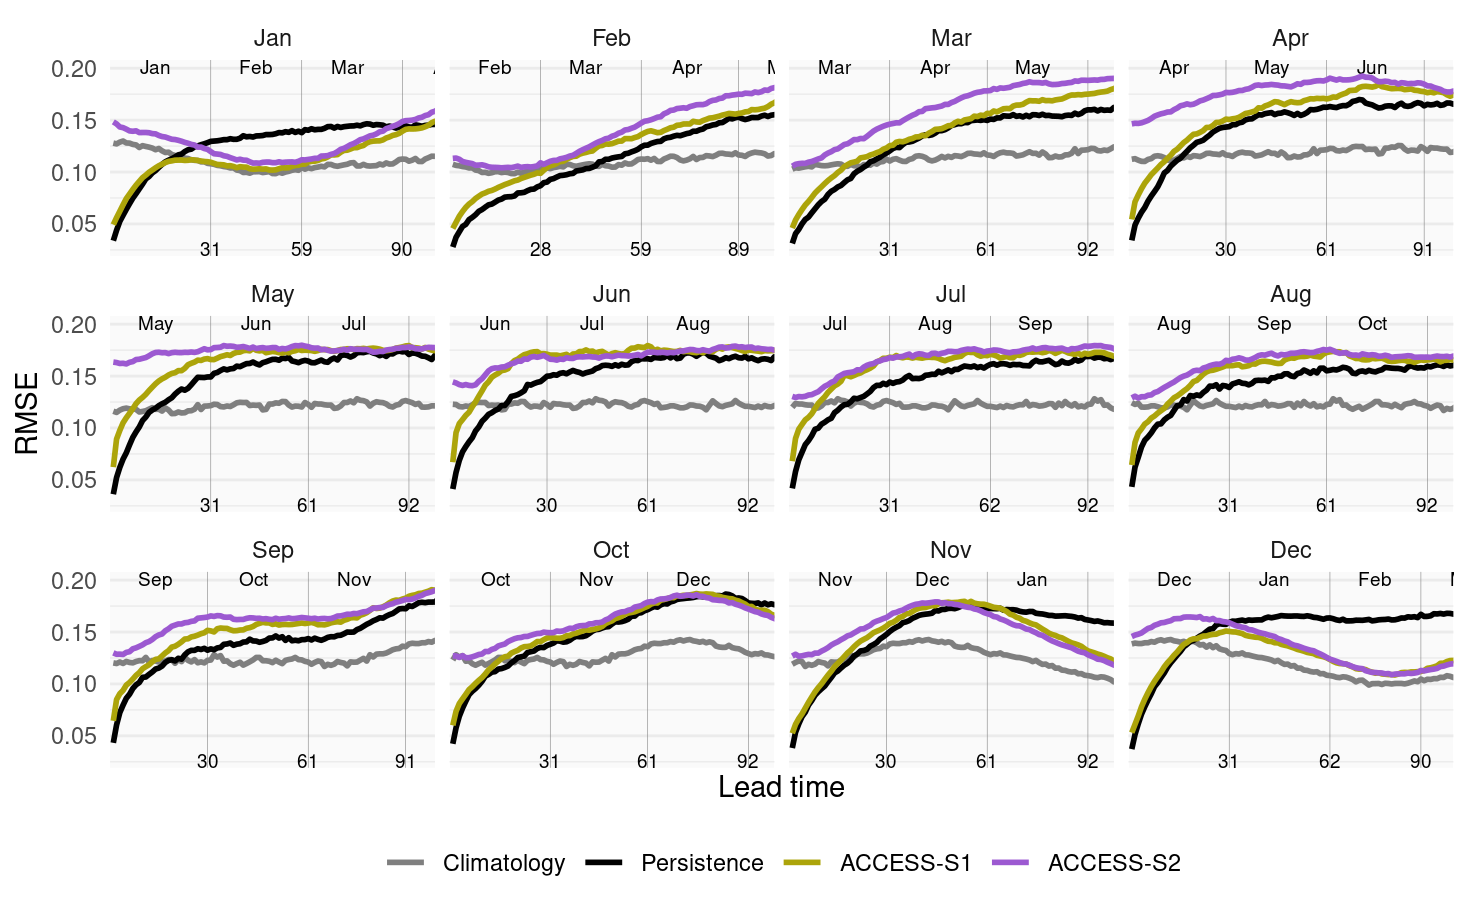
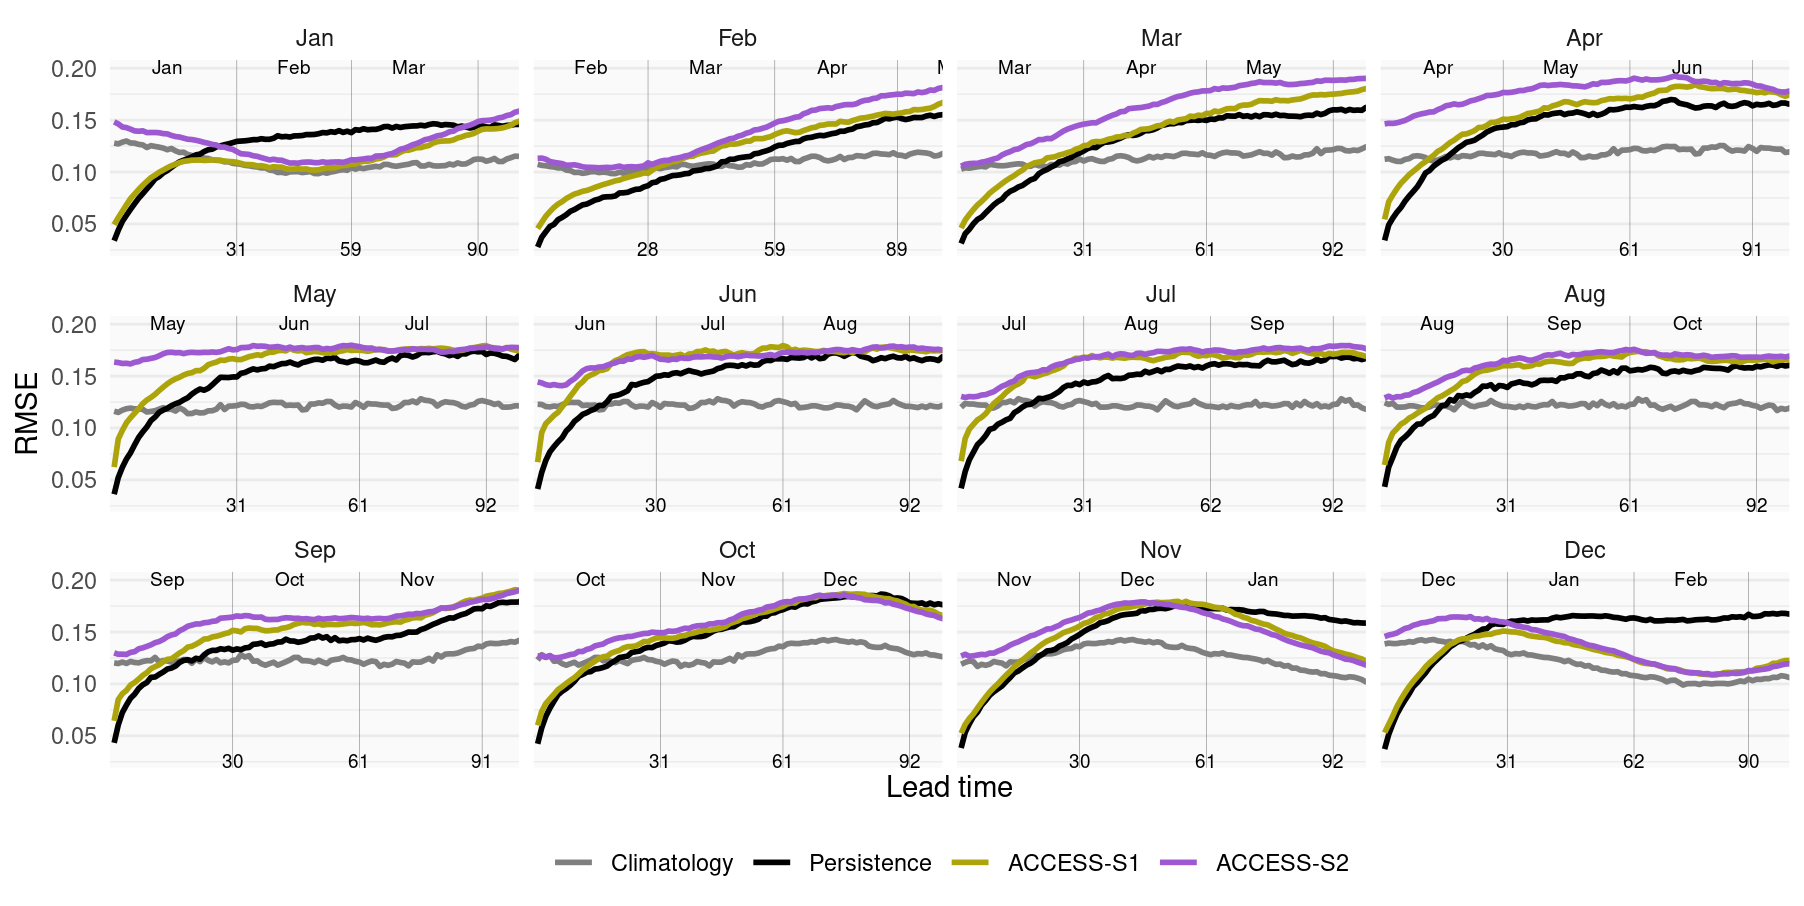
CHanges size climatology

diff --git a/analysis/poster_ncar/presentation_figures.html b/analysis/poster_ncar/presentation_figures.html
@@ -536,12 +536,12 @@ g &lt;- clim_std2 |&gt;
   scale_color_models +
   scale_fill_models +
   facet_wrap(~ month, labeller = labeller(month = labels_month)) </code></pre>
-<pre class="r"><code>width_errors &lt;- 19.43/cm
+<pre class="r"><code>width_errors &lt;- 23.87/cm
 height_errors &lt;- 11.99/cm</code></pre>
 <pre class="r"><code>g %+% g$data[version != &quot;climatology&quot;]</code></pre>
-<p><img src="presentation_figures_files/figure-html/rmse_persistence-1.png" width="734.362204724409" /></p>
+<p><img src="presentation_figures_files/figure-html/rmse_persistence-1.png" width="902.173228346457" /></p>
 <pre class="r"><code>g %+% g$data[version != &quot;persistence&quot;]</code></pre>
-<p><img src="presentation_figures_files/figure-html/rmse_climatology-1.png" width="734.362204724409" /></p>
+<p><img src="presentation_figures_files/figure-html/rmse_climatology-1.png" width="902.173228346457" /></p>
 <pre class="r"><code># ACHTUNG: we have something going on with the 29th of february.
 
 clim_std2 |&gt; 
@@ -573,7 +573,7 @@ p$layers &lt;- p$layers[-4]
 p</code></pre>
 <pre><code>## Warning: No shared levels found between `names(values)` of the manual scale and the
 ## data&#39;s fill values.</code></pre>
-<p><img src="presentation_figures_files/figure-html/error_zoom-1.png" width="734.362204724409" /></p>
+<p><img src="presentation_figures_files/figure-html/error_zoom-1.png" width="902.173228346457" /></p>
 <pre class="r"><code>topo_lonlat &lt;- rcdo::cdo_topo(grid = &quot;r180x90&quot;) |&gt;
   rcdo::cdo_execute(options = c(&quot;-f nc&quot;)) |&gt;
   metR::ReadNetCDF(c(z = &quot;topo&quot;), subset = list(lat = c(-90, -60))) |&gt; 
